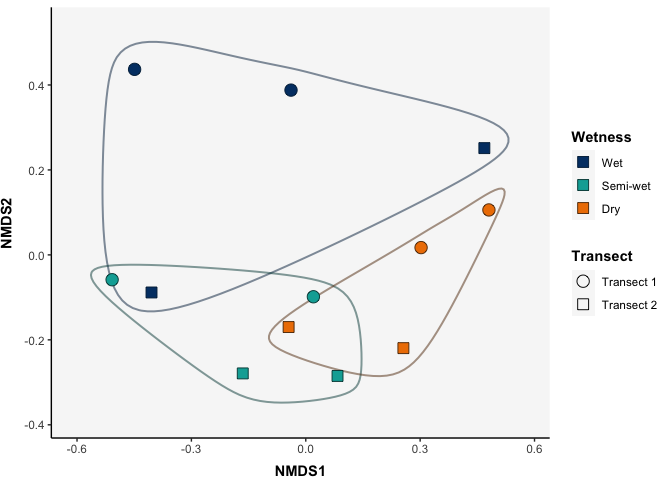
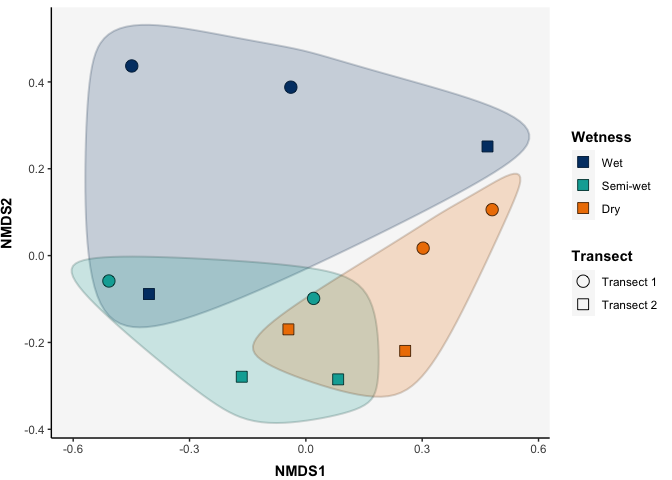
Update to vis_nmds and readme. Added scaling parameter to encircle points.

diff --git a/README.md b/README.md
@@ -64,4 +64,23 @@ used for visualizing and interpreting the relationships between
 sampleshigh-dimensional datasets. We can look into how different samples
 cluster based on the available metadata, e.g., as location.
 
-<img src="man/figures/README-example2-1.png" width="100%" />
+``` r
+vis_nmds(qaanaaq_rRNA_sub,
+         convert_to_rel = TRUE,
+         group_color = Wetness,
+         group_shape = Transect,
+         encircle = TRUE,
+         fill_circle = TRUE,
+         scale_circle = 0.09)
+#> Scale for colour is already present.
+#> Adding another scale for colour, which will replace the existing scale.
+```
+
+<div class="figure">
+
+<img src="man/figures/README-example2-1.png" alt="NMDS plot." width="80%" />
+<p class="caption">
+NMDS plot.
+</p>
+
+</div>
